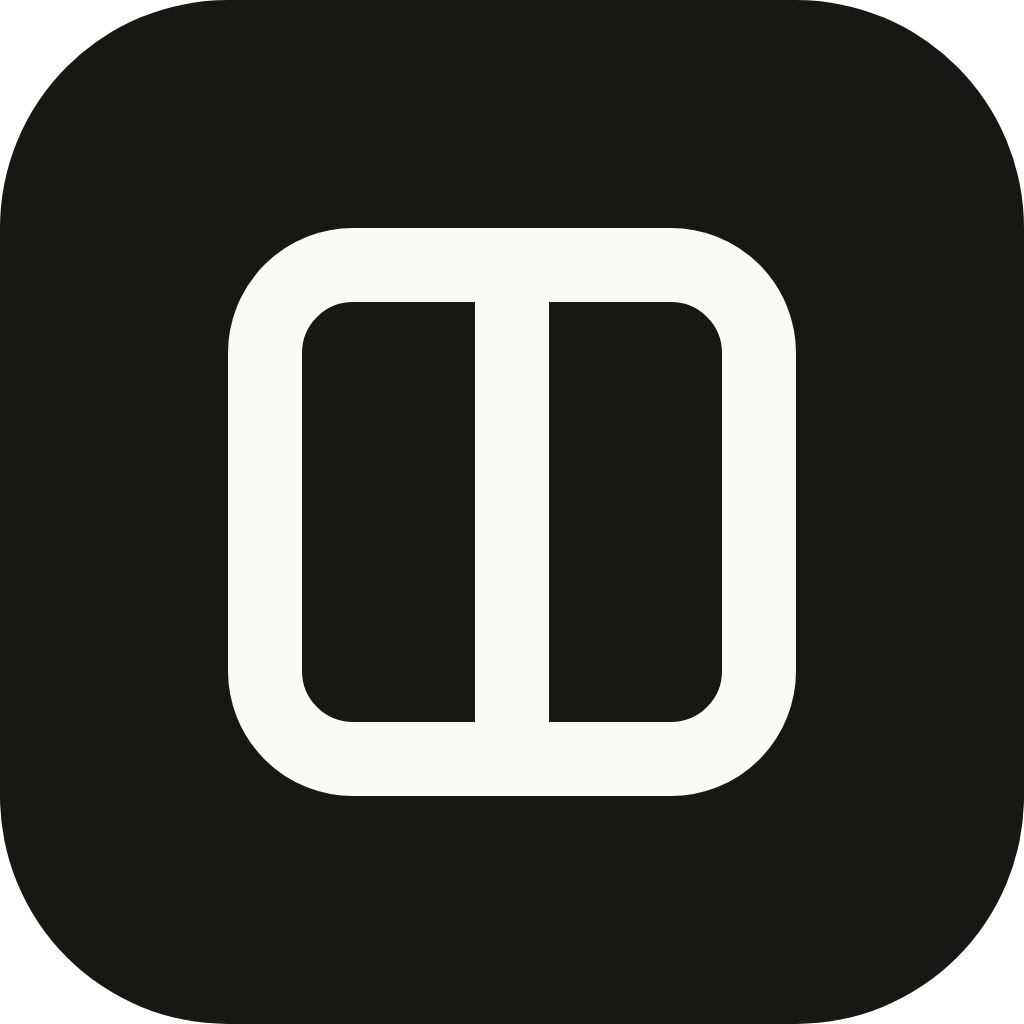
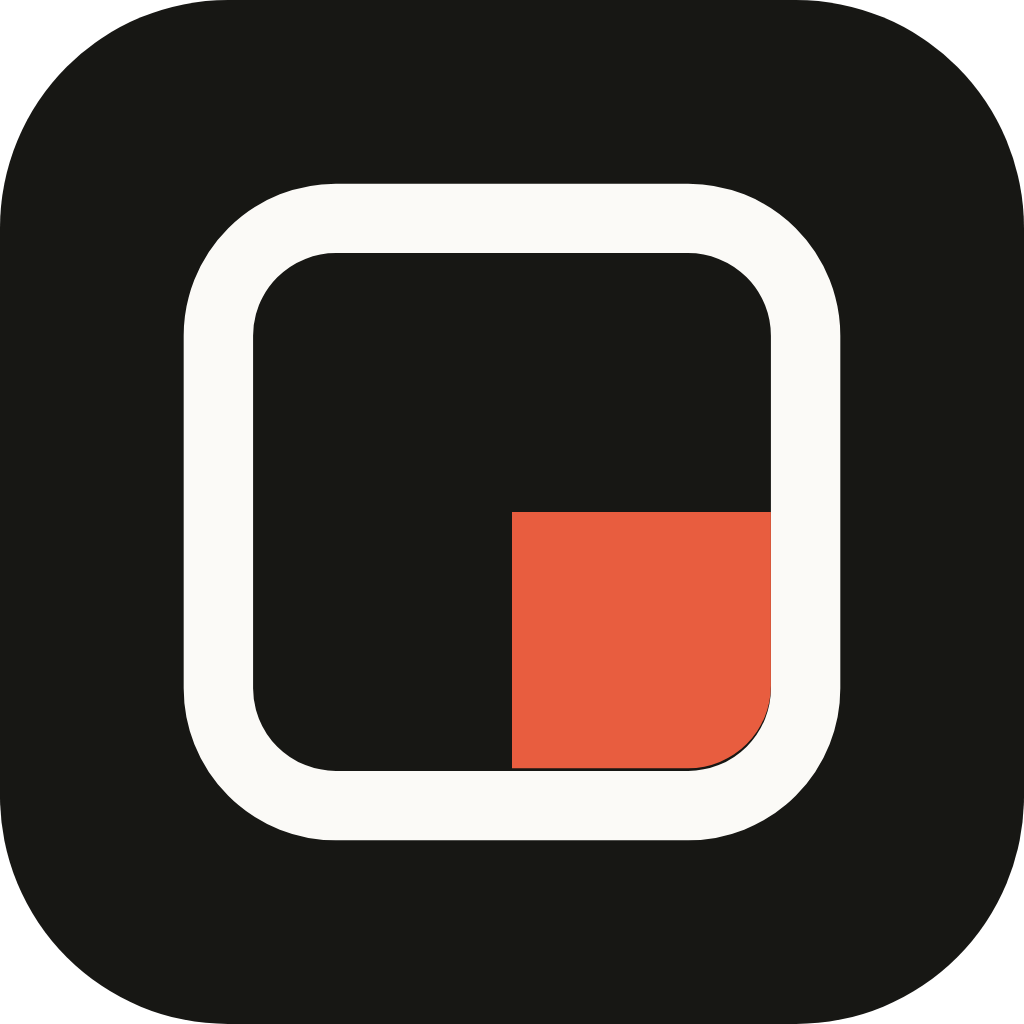
feat(brand): το master σήμα της Vitrina γίνεται Λ1-A
Στην παραγωγή έτρεχαν ΔΥΟ διαφορετικά παλιά σήματα:

  web/index.html            κάθετο μοντάζ — η κατεύθυνση Ε, που βγήκε
                            ΤΕΛΕΥΤΑΙΑ στην αξιολόγηση (6.4) και διαβάζεται
                            ως split-view ή pause, όχι ως βιτρίνα
  6 δευτερεύουσες σελίδες   μαγαζί με πορτοκαλί τέντα

Και τα δύο γίνονται Λ1-A: πλαίσιο βιτρίνας με ένα φωτισμένο τζάμι που
ακουμπά την κάτω δεξιά εσωτερική γωνία.

Η γωνία είναι το όλο θέμα. Στο προηγούμενο σχέδιο το τζάμι επέπλεε και
άφηνε κενό από δύο ακμές — ακριβώς το μοτίβο του picture-in-picture.
Ακουμπώντας το στην ακμή, διαβάζεται ως τζάμι παραθύρου.

Αλλάζουν: index, start, connect, privacy, terms, refunds, data-deletion,
logo.svg, favicon-32, favicon-180, icon-1024, και ο γεννήτορας της αρχικής
ώστε να παράγει Λ1-A στο εξής.

Το πάχος γραμμής ανεβαίνει στα μικρά μεγέθη (3 κάτω από 20px, 2.8 έως 40,
2.6 πάνω) — optical sizing, ίδιο σχέδιο, όχι δεύτερο λογότυπο. Χωρίς αυτό
η γραμμή σβήνει σε πραγματικά pixel.

Ο mobile κανόνας ήταν 15×19 για το παλιό ορθογώνιο σήμα· το νέο είναι
τετράγωνο και έγινε 15×15.

Δεν αγγίζονται: λογότυπα πελατών, hero, τυπογραφία, χρώματα, κείμενα,
αλληλεπιδράσεις, και η δουλειά συμβατότητας των 58 themes.

Changed region(s): [[0.1562, 0.1562, 0.8438, 0.8438]]

diff --git a/web/index.html b/web/index.html
@@ -38,7 +38,7 @@
   /* ── λογότυπο ── */
   .logo{ display:inline-flex; align-items:center; gap:8px; }
   .logo-mark{ flex:none; display:block; }
-  @media (max-width:899px){ .logo-mark{ width:15px; height:19px; } }
+  @media (max-width:899px){ .logo-mark{ width:15px; height:15px; } }
 
   :root{
     --bg:#FBFAF7;
@@ -658,10 +658,7 @@
 
 <header class="site-header">
   <span class="logo" aria-label="Vitrina">
-      <svg class="logo-mark" viewBox="0 0 22 28" width="17" height="22" aria-hidden="true" focusable="false">
-        <rect x="1.2" y="4" width="19.6" height="20" rx="4.5" fill="none" stroke="currentColor" stroke-width="2.4"/>
-        <rect x="9.8" y="4" width="2.4" height="20" fill="currentColor"/>
-      </svg>vitrina</span>
+      <svg class="logo-mark" viewBox="0 0 26 26" width="17" height="17" aria-hidden="true" focusable="false"><rect x="2" y="2" width="22" height="22" rx="4.4" fill="none" stroke="currentColor" stroke-width="3"/><path d="M13 13H22.7v6.5a3.1 3.1 0 0 1-3.1 3.1H13z" fill="#E85D3F"/></svg>vitrina</span>
 </header>
 
 <main>

diff --git a/web/connect.html b/web/connect.html
@@ -80,11 +80,7 @@
   <div class="wrap">
     <div class="hero">
       <a class="logo" href="/">
-        <svg viewBox="0 0 32 32" width="24" height="24" aria-hidden="true">
-          <rect x="6" y="14" width="20" height="14" rx="2" fill="#0a0a0b"/>
-          <rect x="13" y="20" width="6" height="8" rx="1" fill="#fff"/>
-          <path d="M3 14 L6 7 H26 L29 14 Z" fill="#E84D1C"/>
-        </svg>
+        <svg viewBox="0 0 26 26" width="24" height="24" aria-hidden="true" focusable="false"><rect x="2" y="2" width="22" height="22" rx="4.4" fill="none" stroke="currentColor" stroke-width="2.8"/><path d="M13 13H22.7v6.5a3.1 3.1 0 0 1-3.1 3.1H13z" fill="#E85D3F"/></svg>
         Vitrina
       </a>
       <h1>Στοιχεία επιχείρησης</h1>

diff --git a/web/refunds.html b/web/refunds.html
@@ -34,11 +34,7 @@
 <body>
   <main class="wrap">
     <a class="logo" href="index.html">
-      <svg viewBox="0 0 32 32" width="24" height="24" aria-hidden="true">
-        <rect x="6" y="14" width="20" height="14" rx="2" fill="#0a0a0b"/>
-        <rect x="13" y="20" width="6" height="8" rx="1" fill="#fff"/>
-        <path d="M3 14 L6 7 H26 L29 14 Z" fill="#E84D1C"/>
-      </svg>
+      <svg viewBox="0 0 26 26" width="24" height="24" aria-hidden="true" focusable="false"><rect x="2" y="2" width="22" height="22" rx="4.4" fill="none" stroke="currentColor" stroke-width="2.8"/><path d="M13 13H22.7v6.5a3.1 3.1 0 0 1-3.1 3.1H13z" fill="#E85D3F"/></svg>
       Vitrina
     </a>
     <h1>Πολιτική Ακύρωσης και Επιστροφών</h1>

diff --git a/web/data-deletion.html b/web/data-deletion.html
@@ -38,11 +38,7 @@
 <body>
   <div class="wrap">
     <a class="logo" href="index.html">
-      <svg viewBox="0 0 32 32" width="24" height="24" aria-hidden="true">
-        <rect x="6" y="14" width="20" height="14" rx="2" fill="#0a0a0b"/>
-        <rect x="13" y="20" width="6" height="8" rx="1" fill="#fff"/>
-        <path d="M3 14 L6 7 H26 L29 14 Z" fill="#E84D1C"/>
-      </svg>
+      <svg viewBox="0 0 26 26" width="24" height="24" aria-hidden="true" focusable="false"><rect x="2" y="2" width="22" height="22" rx="4.4" fill="none" stroke="currentColor" stroke-width="2.8"/><path d="M13 13H22.7v6.5a3.1 3.1 0 0 1-3.1 3.1H13z" fill="#E85D3F"/></svg>
       Vitrina
     </a>
 

diff --git a/web/privacy.html b/web/privacy.html
@@ -37,11 +37,7 @@
 <body>
   <div class="wrap">
     <a class="logo" href="index.html">
-      <svg viewBox="0 0 32 32" width="24" height="24" aria-hidden="true">
-        <rect x="6" y="14" width="20" height="14" rx="2" fill="#0a0a0b"/>
-        <rect x="13" y="20" width="6" height="8" rx="1" fill="#fff"/>
-        <path d="M3 14 L6 7 H26 L29 14 Z" fill="#E84D1C"/>
-      </svg>
+      <svg viewBox="0 0 26 26" width="24" height="24" aria-hidden="true" focusable="false"><rect x="2" y="2" width="22" height="22" rx="4.4" fill="none" stroke="currentColor" stroke-width="2.8"/><path d="M13 13H22.7v6.5a3.1 3.1 0 0 1-3.1 3.1H13z" fill="#E85D3F"/></svg>
       Vitrina
     </a>
 

diff --git a/web/terms.html b/web/terms.html
@@ -36,11 +36,7 @@
 <body>
   <div class="wrap">
     <a class="logo" href="index.html">
-      <svg viewBox="0 0 32 32" width="24" height="24" aria-hidden="true">
-        <rect x="6" y="14" width="20" height="14" rx="2" fill="#0a0a0b"/>
-        <rect x="13" y="20" width="6" height="8" rx="1" fill="#fff"/>
-        <path d="M3 14 L6 7 H26 L29 14 Z" fill="#E84D1C"/>
-      </svg>
+      <svg viewBox="0 0 26 26" width="24" height="24" aria-hidden="true" focusable="false"><rect x="2" y="2" width="22" height="22" rx="4.4" fill="none" stroke="currentColor" stroke-width="2.8"/><path d="M13 13H22.7v6.5a3.1 3.1 0 0 1-3.1 3.1H13z" fill="#E85D3F"/></svg>
       Vitrina
     </a>
 

diff --git a/web/start.html b/web/start.html
@@ -216,11 +216,7 @@
 <body>
 <div class="wrap">
   <a class="logo" href="/">
-    <svg viewBox="0 0 32 32" width="22" height="22" aria-hidden="true">
-      <rect x="6" y="14" width="20" height="14" rx="2" fill="#0a0a0b"/>
-      <rect x="13" y="20" width="6" height="8" rx="1" fill="#fff"/>
-      <path d="M3 14 L6 7 H26 L29 14 Z" fill="#E84D1C"/>
-    </svg>
+    <svg viewBox="0 0 26 26" width="22" height="22" aria-hidden="true" focusable="false"><rect x="2" y="2" width="22" height="22" rx="4.4" fill="none" stroke="currentColor" stroke-width="2.8"/><path d="M13 13H22.7v6.5a3.1 3.1 0 0 1-3.1 3.1H13z" fill="#E85D3F"/></svg>
     Vitrina
   </a>
 

diff --git a/scripts/swap_master_logo.py b/scripts/swap_master_logo.py
@@ -1,0 +1,108 @@
+#!/usr/bin/env python3
+"""Αντικατάσταση του master σήματος της Vitrina με τη Λ1-A.
+
+    python scripts/swap_master_logo.py
+
+Αγγίζει ΜΟΝΟ το σήμα της Vitrina. Δεν πειράζει λογότυπα πελατών, ούτε
+τυπογραφία, χρώματα, κείμενα ή διατάξεις.
+
+Στην παραγωγή υπήρχαν ΔΥΟ διαφορετικά παλιά σήματα:
+  · web/index.html            — κάθετο μοντάζ (κατεύθυνση Ε, βαθμολογία 6.4)
+  · 6 δευτερεύουσες σελίδες   — μαγαζί με πορτοκαλί τέντα
+
+Και τα δύο γίνονται Λ1-A: πλαίσιο βιτρίνας με ένα φωτισμένο τζάμι που
+ακουμπά την κάτω δεξιά εσωτερική γωνία.
+"""
+from __future__ import annotations
+
+import io
+import re
+from pathlib import Path
+
+ROOT = Path(__file__).resolve().parents[1]
+WEB = ROOT / "web"
+
+INK, CORAL = "#171714", "#E85D3F"
+
+
+def stroke_for(px: int) -> float:
+    """Optical sizing: λεπτότερη γραμμή σβήνει σε πραγματικά pixel."""
+    return 3 if px <= 20 else 2.8 if px <= 40 else 2.6
+
+
+def mark(px: int, cls: str = "", ink: str = "currentColor", pane: str = CORAL) -> str:
+    c = f' class="{cls}"' if cls else ""
+    return (f'<svg{c} viewBox="0 0 26 26" width="{px}" height="{px}" '
+            f'aria-hidden="true" focusable="false">'
+            f'<rect x="2" y="2" width="22" height="22" rx="4.4" fill="none" '
+            f'stroke="{ink}" stroke-width="{stroke_for(px)}"/>'
+            f'<path d="M13 13H22.7v6.5a3.1 3.1 0 0 1-3.1 3.1H13z" fill="{pane}"/></svg>')
+
+
+def main() -> None:
+    changed = []
+
+    # ── 1. Η αρχική: το inline σήμα του header ─────────────────────────
+    p = WEB / "index.html"
+    s = io.open(p, encoding="utf-8").read()
+    new, n = re.subn(r'<svg class="logo-mark".*?</svg>', mark(17, "logo-mark"), s, flags=re.S)
+    assert n == 1, f"index.html: {n} σήματα, περίμενα 1"
+    # το mobile μέγεθος ορίζεται στο CSS· δεν το αγγίζουμε
+    assert 'Φτιάχνουμε το site.' in new, "χάθηκε το hero"
+    io.open(p, "w", encoding="utf-8").write(new)
+    changed.append(("index.html", 1))
+
+    # ── 2. Οι δευτερεύουσες σελίδες: το παλιό σήμα με την τέντα ───────
+    OLD = re.compile(
+        r'<svg viewBox="0 0 32 32" width="(\d+)" height="\d+" aria-hidden="true">\s*'
+        r'<rect x="6" y="14".*?</svg>', re.S)
+    for name in ("start.html", "connect.html", "privacy.html", "terms.html",
+                 "refunds.html", "data-deletion.html"):
+        f = WEB / name
+        if not f.exists():
+            continue
+        t = io.open(f, encoding="utf-8").read()
+        hits = OLD.findall(t)
+        if not hits:
+            continue
+        t2 = OLD.sub(lambda m: mark(int(m.group(1))), t)
+        io.open(f, "w", encoding="utf-8").write(t2)
+        changed.append((name, len(hits)))
+
+    # ── 3. Αυτόνομο logo.svg ───────────────────────────────────────────
+    io.open(WEB / "logo.svg", "w", encoding="utf-8").write(
+        '<svg xmlns="http://www.w3.org/2000/svg" viewBox="0 0 26 26" width="64" height="64" '
+        'role="img" aria-label="Vitrina"><title>Vitrina</title>'
+        '<rect x="2" y="2" width="22" height="22" rx="4.4" fill="none" '
+        f'stroke="{INK}" stroke-width="2.6"/>'
+        f'<path d="M13 13H22.7v6.5a3.1 3.1 0 0 1-3.1 3.1H13z" fill="{CORAL}"/></svg>\n')
+    changed.append(("logo.svg", 1))
+
+    # ── 4. Ο γεννήτορας της αρχικής να παράγει Λ1-A στο εξής ──────────
+    g = ROOT / "scripts" / "integrate_homepage.py"
+    gs = io.open(g, encoding="utf-8").read()
+    old_logo = re.search(r"LOGO = '''<span class=\"logo\".*?'''", gs, re.S)
+    if old_logo:
+        new_logo = ("LOGO = '''<span class=\"logo\" aria-label=\"Vitrina\">\n      "
+                    + mark(17, "logo-mark") + "vitrina</span>'''")
+        io.open(g, "w", encoding="utf-8").write(gs.replace(old_logo.group(0), new_logo, 1))
+        changed.append(("scripts/integrate_homepage.py", 1))
+
+    for name, n in changed:
+        print(f"  ✓ {name:34} {n}")
+
+    # ── 5. Καμία υπολειπόμενη αναφορά στα παλιά σήματα ────────────────
+    leftovers = []
+    for f in sorted(WEB.glob("*.html")):
+        t = io.open(f, encoding="utf-8", errors="ignore").read()
+        if re.search(r'<rect x="6" y="14" width="20" height="14"', t):
+            leftovers.append((f.name, "τέντα"))
+        if re.search(r'viewBox="0 0 22 28"', t):
+            leftovers.append((f.name, "κάθετο μοντάζ"))
+    print()
+    print("υπολείμματα παλιών σημάτων:", leftovers or "κανένα")
+    assert not leftovers, leftovers
+
+
+if __name__ == "__main__":
+    main()

diff --git a/scripts/integrate_homepage.py b/scripts/integrate_homepage.py
@@ -45,16 +45,13 @@ HEAD = f'''<meta charset="utf-8">
 # Το λογότυπο: σήμα βιτρίνας + wordmark. Η γεωμετρία (2.4 περίγραμμα / 2.4
 # μοντάζ σε 20 τετράγωνο) είναι αυτή που επιβίωσε στη δοκιμή απόδοσης 1x.
 LOGO = '''<span class="logo" aria-label="Vitrina">
-      <svg class="logo-mark" viewBox="0 0 22 28" width="17" height="22" aria-hidden="true" focusable="false">
-        <rect x="1.2" y="4" width="19.6" height="20" rx="4.5" fill="none" stroke="currentColor" stroke-width="2.4"/>
-        <rect x="9.8" y="4" width="2.4" height="20" fill="currentColor"/>
-      </svg>vitrina</span>'''
+      <svg class="logo-mark" viewBox="0 0 26 26" width="17" height="17" aria-hidden="true" focusable="false"><rect x="2" y="2" width="22" height="22" rx="4.4" fill="none" stroke="currentColor" stroke-width="3"/><path d="M13 13H22.7v6.5a3.1 3.1 0 0 1-3.1 3.1H13z" fill="#E85D3F"/></svg>vitrina</span>'''
 
 LOGO_CSS = '''
   /* ── λογότυπο ── */
   .logo{ display:inline-flex; align-items:center; gap:8px; }
   .logo-mark{ flex:none; display:block; }
-  @media (max-width:899px){ .logo-mark{ width:15px; height:19px; } }
+  @media (max-width:899px){ .logo-mark{ width:15px; height:15px; } }
 '''
 
 # Το input οδηγεί στο πραγματικό onboarding. Ίδιο συμβόλαιο με τη σελίδα που
